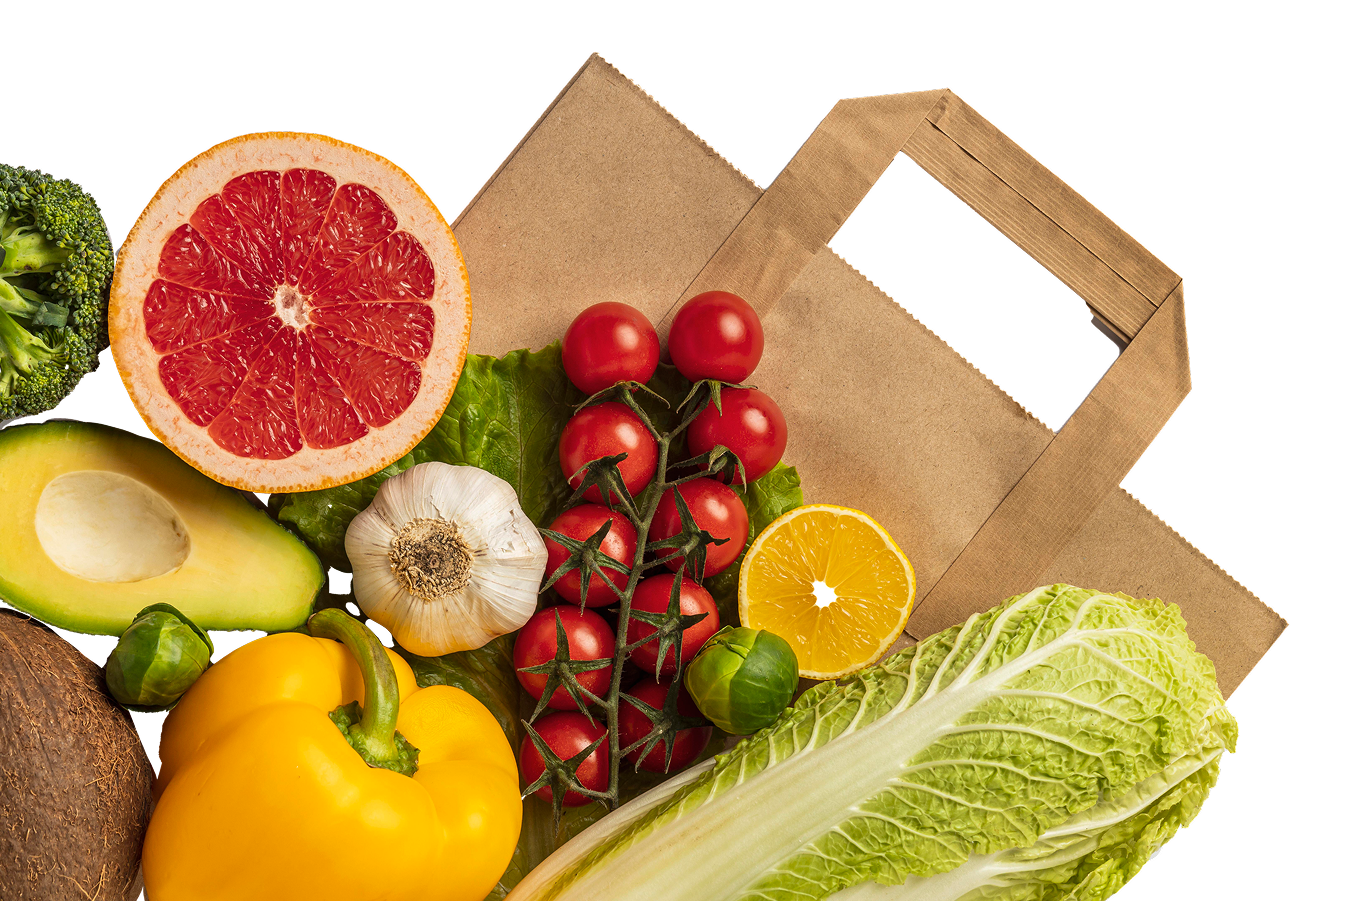
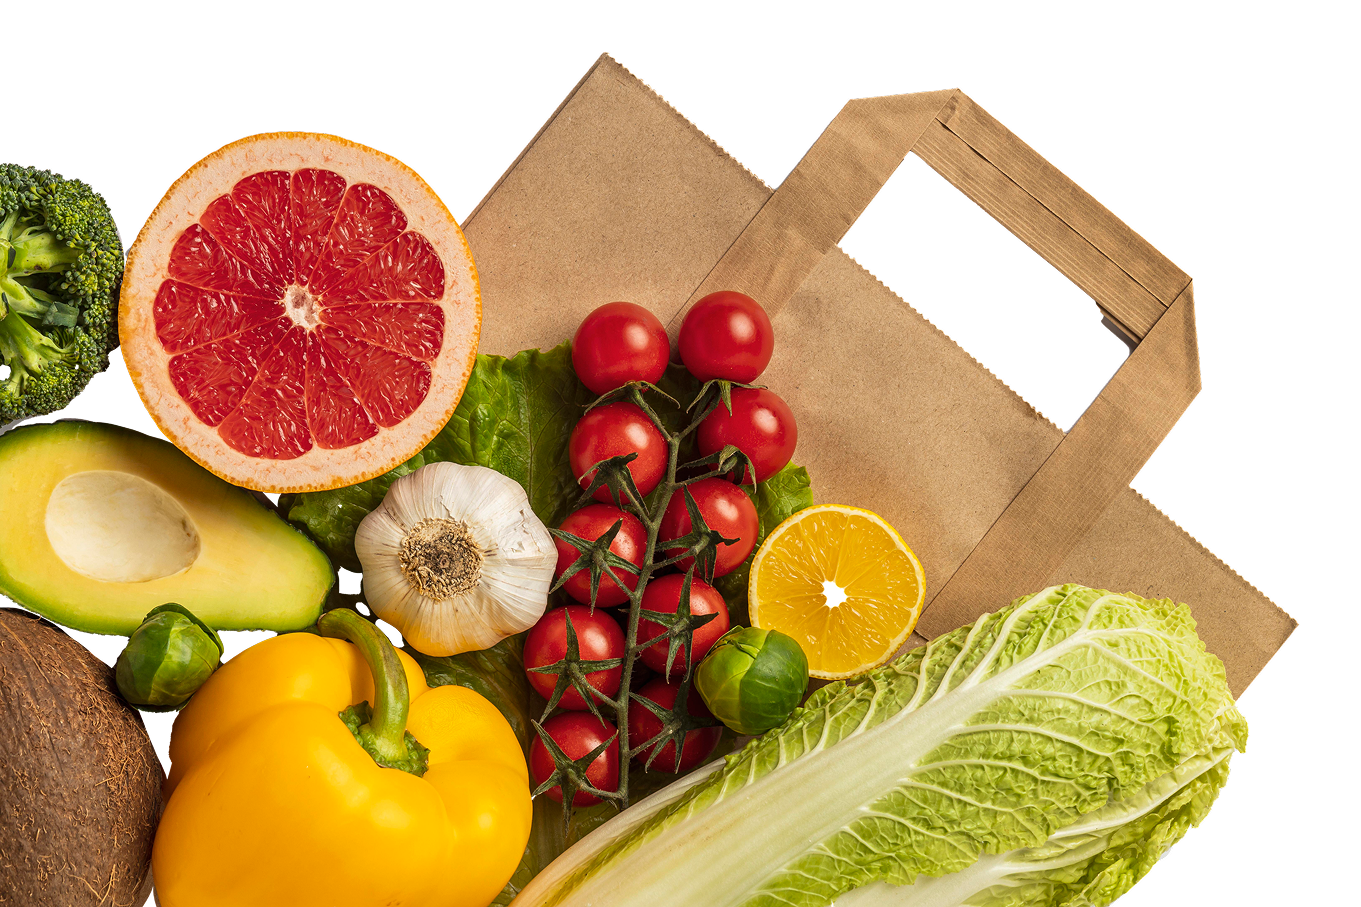
Changes

diff --git a/src/component/CarouselComponent.css b/src/component/CarouselComponent.css
@@ -23,7 +23,7 @@
 .carousel-slides {
   display: flex;
   
- 
+
   transition: transform 0.5s ease-in-out;
   
 }
@@ -34,7 +34,7 @@
   width: 100%;
   height: 500px; 
   position: relative;
-
+  overflow: hidden;;
   opacity: 0;
   display: none;
   transition: opacity 0.5s ease;
@@ -50,60 +50,90 @@
 .carousel-slide.active {
   opacity: 1;
   display: block;
+  
 }
 
 .slide-content {
   display: flex;
-  justify-content: center;
+
+  justify-content: space-between;
   width: 100%;
-  padding: 2rem;
   height: 100%;
-
-}
-.slide-image-wrapper {
-  display: flex;
-  justify-content: center;
-  position: relative;
-  height: 100%;
-  z-index: 0; 
-}
-.slide-content-inner {
-width: 100%;
-display: flex;
-justify-content: space-around;
-height: 100%; 
-}
-.slide-1 .slide-image-wrapper {
-  align-items: stretch;
-  height: 100%;
+  border :5px dotted green;
+  flex-wrap: wrap; 
 }
 
-.slide-1 .slide-text-outer {
-  height: 100%;
-  width: auto;
-  object-fit: cover;
-  display: block;
-  margin: 0;
-
+  .background-curve-0 {
   
-}
+  
+    height: 100%;
+    width: 80%;
+    border :5px dotted red;
+    margin-top: 20px;
+    z-index: 0;
+      pointer-events: none;
 
-.slide-2 .slide-image-wrapper {
-  align-items: flex-end;
-  margin-top: 16px;
-  height: 100%; 
-  margin-left: -100px;
+    }
+    .slide-image-wrapper-0 {
+  margin-left: 7%;
+      position: absolute;
+      min-width: 100px;
+      height: 100%;  
+      border :5px dotted black;
+      z-index: 0; 
+  display: flex;
+    
+    }
+  
+.background-curve-1 {
+
+
+height: 100%;
+display: flex;
+align-self: flex-end;
+border :5px solid red;
+
+z-index: 1;
+  pointer-events: none;
 }
-.slide-2 .slide-text-outer {
-  position: relative;
+.slide-image-wrapper-1 {
+  display: flex;
+
+  margin-left: 210px;
+  position: absolute;
+  height: 100%;  
+
+  z-index: 2; 
+
+}
+.background-curve-2 {
+
+
+  height: 100%;
+
+  border :5px solid red;
+  margin-left: -2%;
   z-index: 1;
-}
+    pointer-events: none;
+  }
+  .slide-image-wrapper-2 {
+    display: flex;
+    width: 910px;
+    align-items: flex-end;      /* Align image to the top */
+    justify-content: flex-start;   
+    margin: 0;
+    
+
+    position: absolute;
+    width: 50%; 
+    height: 100%;
+    z-index: 0;
+    border: 5px dotted black;
+
+    overflow: hidden; 
+  }
 .slide-text-outer {
-  max-width: 560px;
-  width: 100%;
-  aspect-ratio: 4 / 5;
-  object-fit: contain;
-  transform: scale(1.1);
+
   margin-top: 0;
   position: relative;
 
@@ -116,6 +146,7 @@ height: 100%;
   display: flex;
   flex-direction: column;
   justify-content: center;
+  border :5px solid green;
 }
 
 
@@ -178,15 +209,6 @@ height: 100%;
   cursor: pointer;
   transition: background-color 0.3s;
 }
-.background-curve {
-  display: flex;
-height: 100%;
-width: auto;
-position: absolute;
-
-z-index: 1;
-  pointer-events: none;
-}
 
 .dot.active {
   background-color: #004C45;
@@ -200,10 +222,7 @@ z-index: 1;
     text-align: center;
   }
 
-  .slide-content-inner {
-    flex-direction: column;
-    align-items: center;
-  }
+
 
   .slide-text-outer {
     width: 80%;

diff --git a/src/pages/NimbleLandingPage.js b/src/pages/NimbleLandingPage.js
@@ -27,11 +27,29 @@ import imageA from '../images/phone1.png';
 import imagebackA from '../images/bg.png';
 import image_mobilebg from '../images/m_bg.png';
 import CarouselComponent from '../component/CarouselComponent';
+import one1 from "../images/vector2.png";
+import two2 from "../images/vector1.png";
+import three3 from "../images/vector.png";
 
 const slidesData = [
-  { headline: 'Get your free goodie bag only on launch day', subtext: 'Spend $25 or more and get it today' , image: totebag},
-  { headline: 'Refer 5 & get 15% off!', subtext: 'Offer valid on purchases over $25 on June 14th', image: two_g },
-  { headline: 'Students, stock up!', subtext: 'Get upto 20% off groceries for next 3 months', image: three_g }
+  {
+    headline: "Get your free goodie bag only on launch day",
+    subtext: "Spend $25 or more and get it today",
+    image: totebag,
+    vector1: one1,
+  },
+  {
+    headline: "Refer 5 & get 15% off!",
+    subtext: "Offer valid on purchases over $25 on June 14th",
+    image: two_g,
+    vector1: two2,
+  },
+  {
+    headline: "Students, stock up!",
+    subtext: "Get upto 20% off groceries for next 3 months",
+    image: three_g,
+    vector1: three3,
+  },
 ];
 const NimbleLandingPage = () => {
 
@@ -40,13 +58,13 @@ const NimbleLandingPage = () => {
 
   const nextSlide = () => setCurrentSlide((prev) => (prev + 1) % slidesData.length);
   const prevSlide = () => setCurrentSlide((prev) => (prev - 1 + slidesData.length) % slidesData.length);
-  useEffect(() => {
-    const interval = setInterval(() => {
-      nextSlide();
-    }, 4000); // 4000ms = 4 seconds
+  // useEffect(() => {
+  //   const interval = setInterval(() => {
+  //     nextSlide();
+  //   }, 4000); // 4000ms = 4 seconds
 
-    return () => clearInterval(interval); // cleanup
-  }, []);
+  //   return () => clearInterval(interval); // cleanup
+  // }, []);
   
   return (
     <div className="font-sans">

diff --git a/src/component/CarouselComponent.js b/src/component/CarouselComponent.js
@@ -1,7 +1,7 @@
 import React from 'react';
 import './CarouselComponent.css';
-import greencurve from '../images/vector.png';
 
+ 
 const CarouselComponent = ({
   slides = [],
   currentSlide = 0,
@@ -18,17 +18,17 @@ const CarouselComponent = ({
               key={index}
               className={`carousel-slide slide-${index} ${index === currentSlide ? 'active' : ''}`}
             >
-              {index === 2 && (
+
+              <div className="slide-content">
+              {(
                 <img
-                  src={greencurve}
+                  src={slide.vector1}
                   alt="Background Curve"
-                  className="background-curve"
+                  className={`background-curve background-curve-${index}`}
                 />
               )}
 
-              <div className="slide-content">
-                <div className="slide-content-inner">
-                  <div className={`slide-image-wrapper slide-${index}`}>
+<div className={`slide-image-wrapper slide-image-wrapper-${index}`}>
                     <img src={slide.image} className="slide-text-outer" alt="Hero" />
                   </div>
 
@@ -37,7 +37,7 @@ const CarouselComponent = ({
                     <p>{slide.subtext}</p>
                     <button className="download-btn">Download Now</button>
                   </div>
-                </div>
+                
               </div>
             </div>
           ))}
